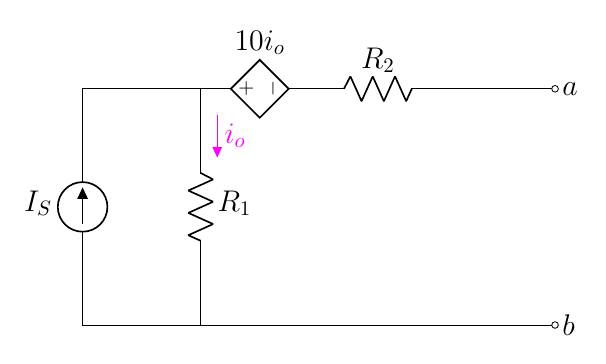
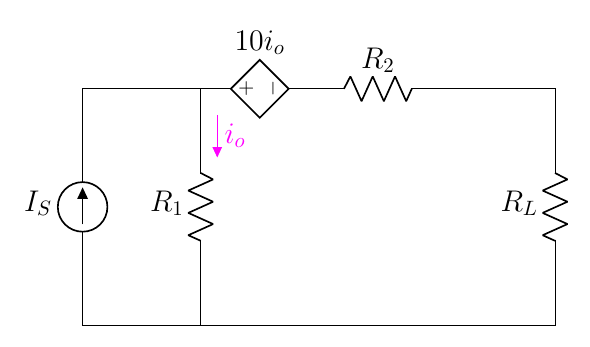
edit 4.48

diff --git a/1.8 Thevinin and Norton/4.5-4.6 Thevenin Norton/4.48(new).tex b/1.8 Thevinin and Norton/4.5-4.6 Thevenin Norton/4.48(new).tex
@@ -3,14 +3,15 @@
 \begin{circuitikz}[american,cute inductors]
     \input{../../preamble2.tex}
 
-    \draw(0,0) node[anchor=west]{$b$}
-        to[short,o-] ++(-8,0)
+    \draw(0,0)
+        to[short] ++(-8,0)
         to[I, l=\isname{}] ++(0,4)
         to[short] ++(2,0)
-        to[R, l=\rname{1}] ++(0,-4) ++(2,4)
+        to[R, l_=\rname{1}] ++(0,-4) ++(2,4)
         to[american controlled voltage source, l_=$10i_o$] ++(-2,0) ++(2,0) 
         to[R, l=\rname{2}] ++(2,0)
-        to[short,-o] ++(2,0)node[anchor=west]{$a$};
+        to[short] ++(2,0)
+        to[R,l_=\rname{L}] (0,0);
 
     %%% find %%%
     % node[anchor=west]{$a$}
